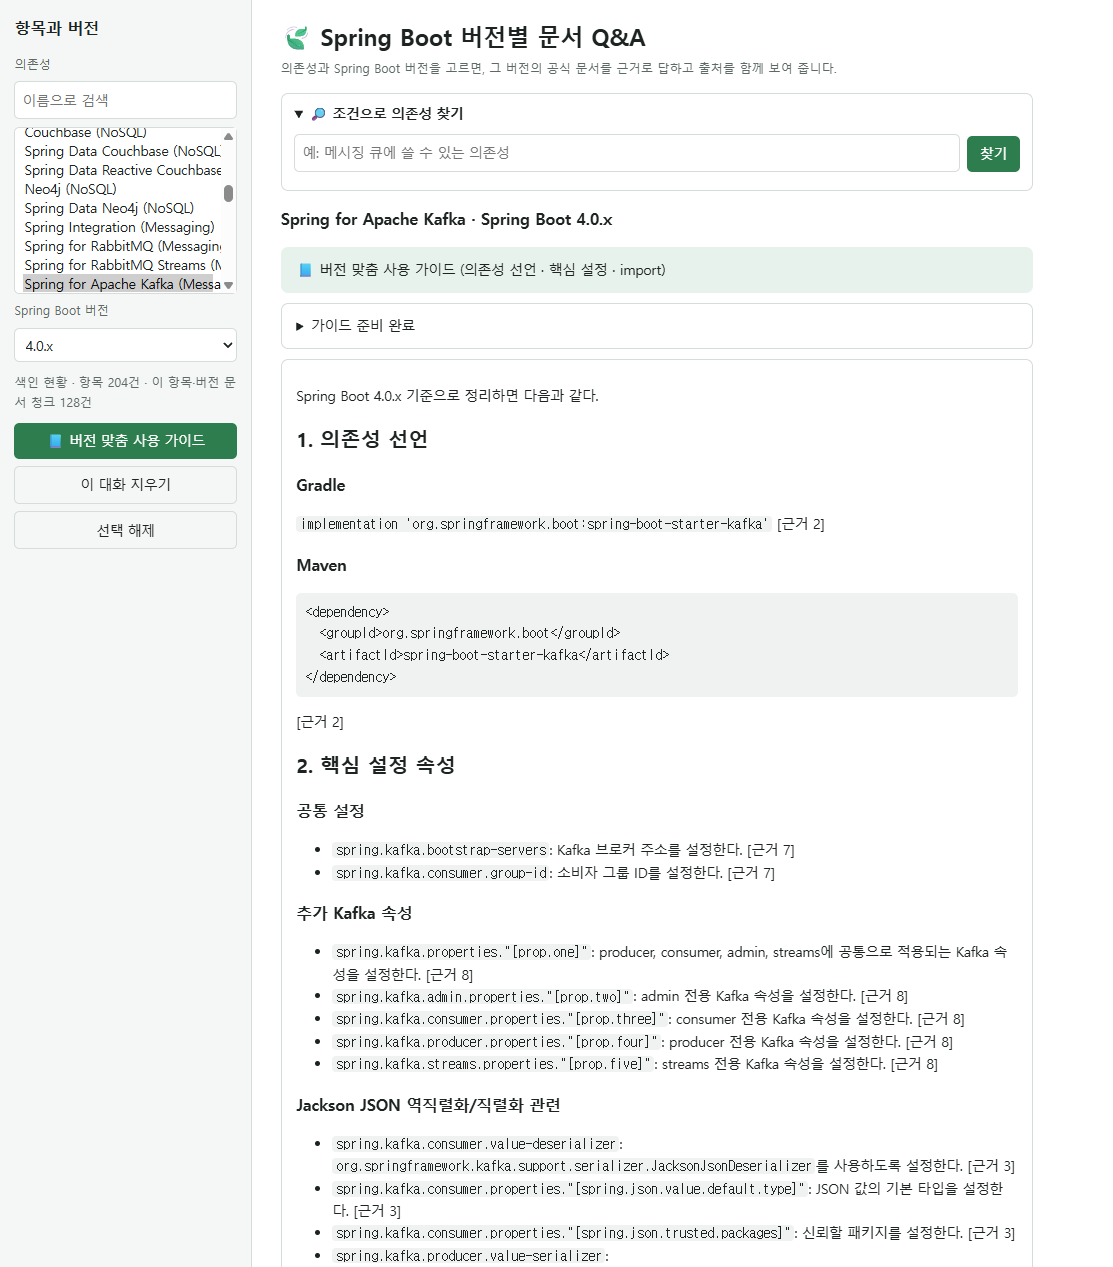
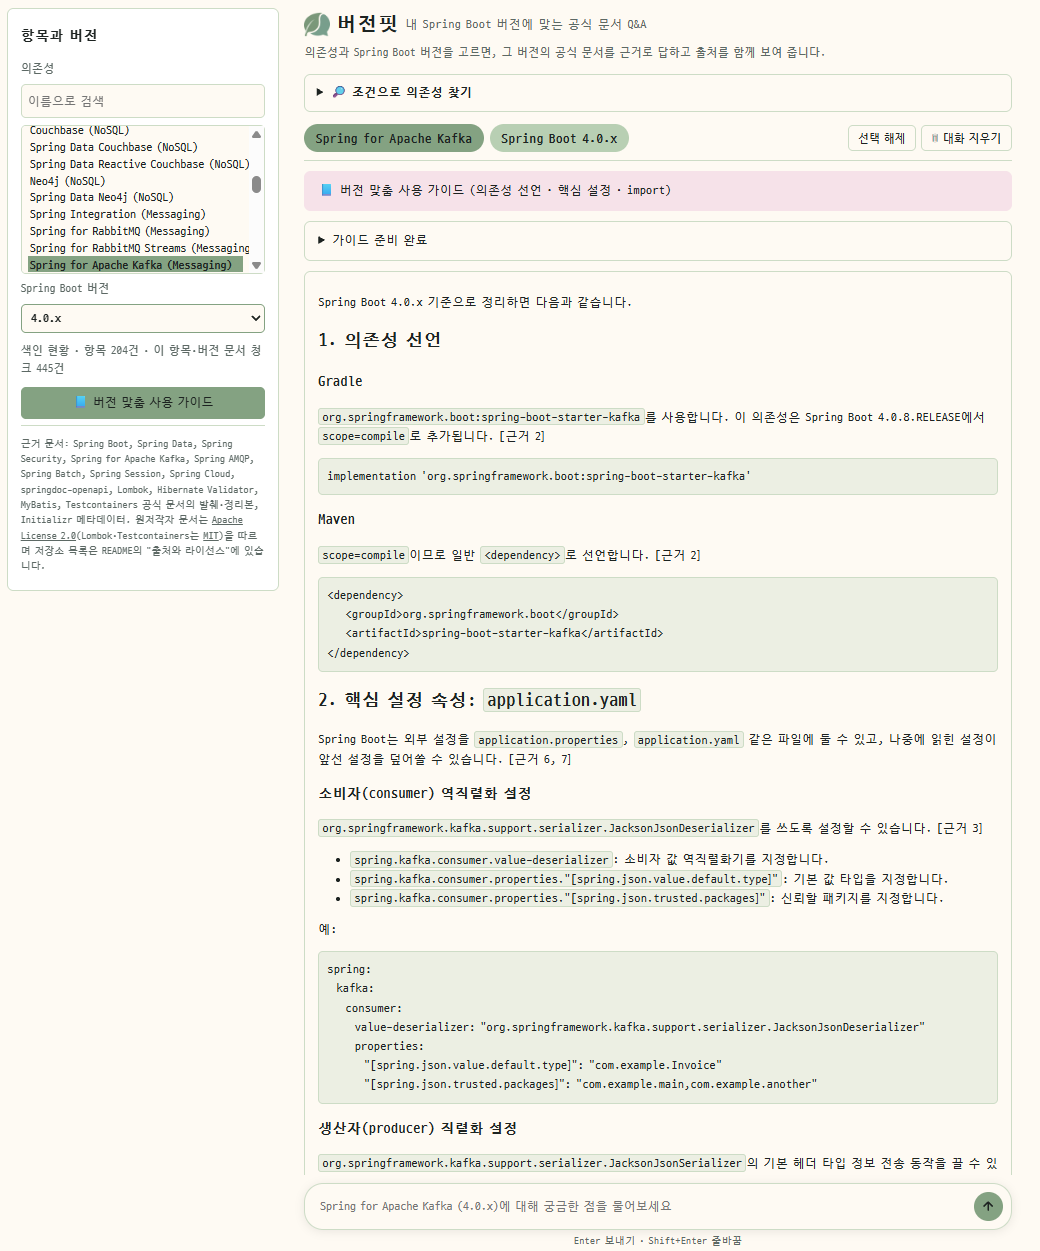
docs: 최종 UI 캡처 12장으로 교체하고 검증 결과·캡처 목록 갱신

Changed region(s): [[0.0, 0.0, 0.9846, 0.9976]]

diff --git a/docs/verification.md b/docs/verification.md
@@ -53,7 +53,7 @@ graph TD;
 | 항목을 바꿨을 때 이전 대화가 섞이지 않는다 | 통과 | 캡처 ③a(Kafka 4.0.x 답변) → ③b(3.5.x로 바꾸면 빈 대화) → ③c(4.0.x로 돌아오면 대화 그대로). 대화는 localStorage `chat:{항목}\|{버전}`에 따로 저장 |
 | 조건 탐색 결과에 조건과 맞지 않는 항목이 섞이지 않는다 | 통과 ✅ | "메시징 큐에 쓸 수 있는 의존성" → rabbitmq, kafka, pulsar, activemq, artemis, solace, cloud-stream, integration (8/8 Messaging 분류). 실행에 따라 cloud-gcp-pubsub(분류 Google Cloud, 설명 Pub/Sub)도 나와, 판정은 "대부분 Messaging 분류 + 나머지도 설명이 메시징"으로 한다. 무관한 조건("냉장고 온도를 조절하는 의존성") → 빈 결과. 캡처 ④ |
 | 도메인 특화 기능 결과에도 근거가 제시된다 | 통과 ✅ | Kafka 4.0.x 가이드에 `[근거 N]`, 출처 Initializr 의존성 좌표 + 항목 정보 + Spring Boot 4.0.x 문서. 캡처 ⑤a·⑤b (좌표 `spring-boot-starter-kafka`, `spring.kafka.*` 설정, import, 근거 8건) |
-| 문서 수집과 답변 생성 중 진행 상태가 표시된다 | 통과 ✅ | `/api/ask` SSE step 전달 확인 (uvicorn 실측 0.5→1.8→2.9초에 하나씩). 캡처 ⑥(JPA 3.4.x 첫 질문: 검색어 → 후보 → 색인 → 새 청크 78건 → 답변 생성) |
+| 문서 수집과 답변 생성 중 진행 상태가 표시된다 | 통과 ✅ | `/api/ask` SSE step 전달 확인 (uvicorn 실측 0.5→1.8→2.9초에 하나씩). 캡처 ⑥(JPA 4.0.x 질문: 검색어를 뽑는 중 → 후보 문서를 찾는 중 → 이미 색인된 문서로 답합니다 → 답변을 만드는 중) |
 | 색인이 없는 상태와 API 키가 없는 상태에서 안내가 표시된다 | 통과 ✅ | `/api/status`가 키 없음 `gms_key: false`, 색인 없음 `items_total: 0`을 돌려주고 화면이 배너로 안내. 캡처 ⑦(키 없음 배너, 가이드 버튼 비활성). 색인 없음 배너는 자동 확인만 |
 | 위험 도메인이면 전문가 조언 대체 아님 안내 | 해당 없음 | 기술 문서 도메인 (requirements.md 2절 결정) |
 
@@ -64,7 +64,7 @@ graph TD;
 | F2013 화면이 HTML·CSS·JS로 동작하고 질문·답변·근거가 모두 표시된다 | 통과 | `server.py`(FastAPI) + `web/`. 캡처 ① (질문, 진행 단계, 답변, 근거 목록) |
 | F2014 유사도 검색과 MMR의 근거 목록 차이 | 통과 | rag-design.md 6.1 (5개 질문 비교, `python -m scripts.compare_search`) |
 | F2015 대표 질문의 RAG 사용 전후 답변을 나란히 확보 | 통과 | rag-comparison.md (6개 질문, 답변 전문 포함). 4절은 외부 문서 추가 전후 14개 질문 |
-| F2016 근거 목록에 출처 종류가 구분 표시된다 | 통과 | 39개 항목에 프로젝트 문서 결합 (`data_prep/external_docs.py`), 효과는 rag-comparison.md 4절 (14개 중 11개 개선). 캡처 ①: SpringDoc 4.1.x 질문의 근거에 `springdoc-openapi 3.x 문서` 표시. 캡처 ⑤b의 `Spring Boot 4.0.x 문서`·`Initializr 의존성 좌표`와 구분됨 |
+| F2016 근거 목록에 출처 종류가 구분 표시된다 | 통과 | 39개 항목에 프로젝트 문서 결합 (`data_prep/external_docs.py`), 효과는 rag-comparison.md 4절 (14개 중 11개 개선). 캡처 ①: SpringDoc 4.1.x 질문의 근거에 `springdoc-openapi 3.x 문서` 표시. 캡처 ⑨: Testcontainers 4.1.x 질문의 근거에 `Testcontainers 2.0.5 문서`와 `Spring Boot 4.1.x 문서`가 함께, 출처별로 구분 표시됨 |
 
 ## 4.6 RAG 사용 전후 품질 비교
 
@@ -93,7 +93,7 @@ graph TD;
 |---|---|---|
 | 필수 기능 F2001~F2012가 모두 동작한다 | 통과 | 4.1~4.4, 캡처 ①~⑦ |
 | 선택한 심화 기능이 동작하고 필수 기능 결과와 비교되어 있다 | 통과 | F2013(캡처 ①), F2014(6.1), F2015(rag-comparison.md), F2016(39개 항목, rag-comparison.md 4절) |
-| 증명용 스크린샷을 모두 첨부했다 | 통과 (재촬영 예정) | 아래 캡처 목록 (10장). 이후 화면이 바뀌어 최종 UI로 다시 찍는다 |
+| 증명용 스크린샷을 모두 첨부했다 | 통과 | 아래 캡처 목록 (12장, 2026-10-23 최종 UI) |
 | 요구사항 정의서·설계문서·소스코드·README.md 포함 | 통과 | `docs/requirements.md`, `docs/rag-design.md`, 소스, `README.md` |
 | 검증 결과(요구사항 대조표, 테스트 결과표, 셀프·상호 체크리스트) 포함 | 일부 | 이 문서(대조표·결과표·셀프 체크). 상호 점검은 옆 교육생이 같은 체크리스트로 진행 |
 
@@ -102,12 +102,14 @@ graph TD;
 | 번호 | 파일 | 내용 | 관련 항목 |
 |---|---|---|---|
 | ① | `01-answer-sources.png` | SpringDoc 4.1.x 질문 → 진행 단계 → 답변 → 펼친 근거 목록 (springdoc 3.x 문서) | 4.3, F2013, F2016 |
-| ② | `02-no-citation.png` | 인용된 근거가 없을 때 "답변에 인용된 근거가 없습니다" | 4.3 |
+| ② | `02-no-citation.png` | Spring Web Services 4.1.x "안녕하세요" → 짧은 안내, "ⓘ 답변에 인용된 근거가 없습니다." | 4.3 |
 | ③ | `03a`·`03b`·`03c-chat-separation.png` | Kafka 4.0.x 대화 → 3.5.x로 바꾸면 빈 대화 → 4.0.x로 돌아오면 대화 그대로 | 4.4, F2009 |
 | ④ | `04-explore-cards.png` | 조건 탐색 카드 | 4.4, F2011 |
-| ⑤ | `05a`·`05b-guide.png` | Kafka 4.0.x 버전 맞춤 사용 가이드(위·아래)와 근거 8건 | 4.4, F2010 |
-| ⑥ | `06-progress.png` | 수집 중 진행 상태 박스 | 4.4, F2012 |
+| ⑤ | `05a`·`05b-guide.png` | Kafka 4.0.x 버전 맞춤 사용 가이드: 위(의존성 선언 Gradle·Maven, 설정 속성), 아래(설정 속성, import, 근거 목록) | 4.4, F2010 |
+| ⑥ | `06-progress.png` | Spring Data JPA 4.0.x 질문의 진행 상태 박스 (단계 목록) | 4.4, F2012 |
 | ⑦ | `07-no-key.png` | 키가 없을 때 안내 배너 (`.env` 이름을 잠시 바꾸고 서버 재시작) | 4.4, F2012 |
+| ⑧ | `08-general-answer.png` | Kafka 4.0.x 브로커 힙 질문 → "문서에서 확인되지 않는다" → 💡 버튼 → "⚠ 문서 근거 없음 · 일반 지식 답변" | 4.3, (추가) 일반 지식 답변 |
+| ⑨ | `09-project-docs.png` | Testcontainers 4.1.x 질문 → 근거 목록에 Testcontainers 2.0.5 문서와 Spring Boot 4.1.x 문서 | 4.5, F2016 |
 
 ## 요구사항 대조표
 
@@ -128,6 +130,6 @@ graph TD;
 | F2013 프론트엔드 직접 구현 | `server.py`, `web/` | 4.5 |
 | F2014 MMR | `config.toml` `search.mode`, `scripts/compare_search.py` | 4.5, rag-design.md 6.1 |
 | F2015 RAG 전후 비교 | `scripts/compare_rag.py`, `docs/rag-comparison.md` | 4.6 |
-| F2016 여러 문서 출처 결합 | `data_prep/external_docs.py` (springdoc, Spring Data, Security, Kafka, AMQP, Batch, Session), `scripts/compare_sources.py` | 4.5 |
-| (추가) 일반 지식 답변 | `rag/graph.py` `general`, `rag/prompts.py` `GENERAL`, `server.py` `/api/general`, `web/app.js` | 4.3 |
+| F2016 여러 문서 출처 결합 | `data_prep/external_docs.py` (springdoc, Spring Data, Security, Kafka, AMQP, Batch, Session, Spring Cloud, Lombok, Hibernate Validator, MyBatis, Testcontainers), `scripts/compare_sources.py` | 4.5 (캡처 ⑨) |
+| (추가) 일반 지식 답변 | `rag/graph.py` `general`, `rag/prompts.py` `GENERAL`, `server.py` `/api/general`, `web/app.js` | 4.3 (캡처 ⑧) |
 | NF2001~NF2007 | 4.7 표 | 4.7 |

diff --git a/docs/progress.md b/docs/progress.md
@@ -120,6 +120,7 @@
 - Kafka·AMQP·Batch·Session (2026-10-22): Boot 의존성 설정(4.1.x/4.0.x/3.5.x/3.4.x) Spring Kafka 4.1/4.0/3.3.16/3.3.11, Spring AMQP 4.1/4.0/3.2.12/3.2.8, Spring Batch 6.0/6.0/5.2.6/5.2.4, Spring Session 4.1.1/4.0.5/3.5.7/3.4.7. Boot 3.5·3.4가 같은 판을 쓰는 경우가 있음. Maven Central 최신 릴리스 Kafka 4.1.1/4.0.7/3.3.16, AMQP 4.1.1/4.0.5/3.2.12, Batch 6.0.5/5.2.6, Session 4.1.1/4.0.5/3.5.7/3.4.7. 저장소 모두 Apache-2.0, NOTICE 없음, 해당 브랜치 있음.
   - 문서 위치: spring-kafka-docs/src/main/antora, src/reference/antora(AMQP), spring-batch-docs, spring-session-docs. docs.spring.io는 최신판만 302(버전 없는 주소), 나머지 판은 모두 200 (Spring Data·Security와 달리 3.4 짝도 남아 있음).
 - 같은 프로젝트 문서를 쓰는 항목 12개 추가 (2026-10-22): 리액티브(data-redis-reactive, data-mongodb-reactive), kafka-streams, rabbitmq-streams, batch-jdbc, batch-data-mongodb, session-jdbc·hazelcast·data-mongodb는 기존 출처를 그대로, oauth2-resource-server·security-saml2·spring-security-webauthn은 Security의 `servlet|reactive/oauth2/resource-server/**`, `servlet/saml2/**`, `servlet/authentication/passkeys.adoc` (네 판 모두 경로 있음, 리액티브 passkeys 문서는 없음). 확인 질문: resource-server JWT 권한 클레임 → `JwtGrantedAuthoritiesConverter.setAuthoritiesClaimName`, session-jdbc 테이블 이름 → `@EnableJdbcHttpSession(tableName)`, kafka-streams 토폴로지 → `@EnableKafkaStreams` + `StreamsBuilder` 빈.
+- 캡처 재촬영 (2026-10-23): 최종 UI로 ①~⑨ 12장. ② 촬영 중 "안녕하세요"에도 항목 문서를 설명하며 근거 번호를 붙여 인용 없음 안내가 안 나옴 → 답변 프롬프트에 "기술 질문이 아니면 짧게 답하고 근거 번호를 붙이지 않는다" 규칙 추가. 3개 항목 × 2회 모두 인용 없음, 자동 확인 21/21, RAG 전후 비교 RAG 6문항 판정 같음.
 - 답변 모델 역할 분리 (2026-10-22): `config.toml` `chat`(gpt-5.4-mini, 수집·문서 근거 답변·탐색) / `general`(gpt-6.1-sol, 일반 지식 답변). 응답 메타데이터 모델 이름으로 각각 호출 확인. 아래 sol 측정이 근거.
 - `gpt-6.1-sol` 측정 (2026-10-22): GMS 모델 ID `gpt-6.1-sol` 직접 호출 성공 (`/models` 목록은 여전히 500). 대표 질문 1 4/4, 평균 7.6초(mini 4.3초). compare_rag: 사실 정확성 LLM만 5/5 → RAG 5/5(mini 2/5 → 5/5), 근거 0/5 → 5/5, 지어내지 않음 1/2 → 2/2. LLM만은 Boot 4.0 변경을 알지만 6번(브로커 힙)은 "6GB"를 지어냄. compare_sources 14개 판정 mini와 같음. rag-comparison.md 2.1절·4절·5절.
 - Testcontainers (2026-10-22): Boot 의존성 설정 4.1.x·4.0.x 2.0.5, 3.5.x 1.21.4, 3.4.x 1.20.6 (태그). MIT. mkdocs `docs/**.md`, 예제는 `<!--codeinclude-->[제목](테스트 소스) inside_block:이름`(이름 줄부터 중괄호 짝까지), 탭 `=== "Gradle"`, `{{latest_version}}`. 사이트 java.testcontainers.org(최신판만, 주소는 `경로/`). 확인 질문: 4.1.x PostgreSQL 컨테이너 테스트 → `PostgreSQLContainer`, JUnit 5 예시, 2.x 좌표 `testcontainers-postgresql` ✓, 3.5.x wait strategy → `waitingFor`, `Wait.forHealthcheck/forHttp` ✓.
@@ -166,9 +167,10 @@ items 204건 중 `doc_url`이 Spring Boot 문서인 항목 73, 외부 링크 113
 
 ## 5. 다음 작업 (순서대로)
 
-1. UI 마무리 후 화면 캡처 ①~⑦ 재촬영 + ⑧ 일반 지식 답변, ⑨ 프로젝트 문서 근거 답변 (사용자, UI가 다 끝난 뒤)
+1. 셀프 체크리스트 (양식 받으면)
 2. 상호 점검(옆 교육생)
-3. push (사용자 요청 시)
+3. 제출 zip `AI코어프로젝트2_[주제명]_지역_반_성명.zip` (지역·반·성명 필요, .env·.venv·chroma_db·문서 사본·명세 PDF 제외)
+4. push (사용자 요청 시)
 
 ## 6. 커밋 이력 요약
 - 기획 문서 → 라이브러리 버전·설정 → items 색인 (F2001, F2002)
